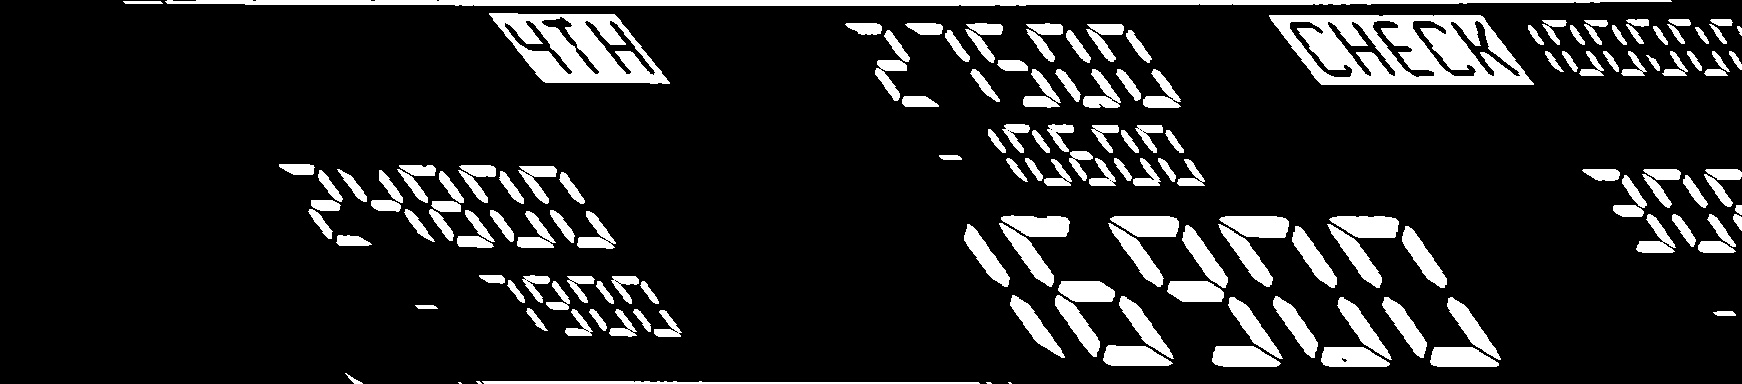
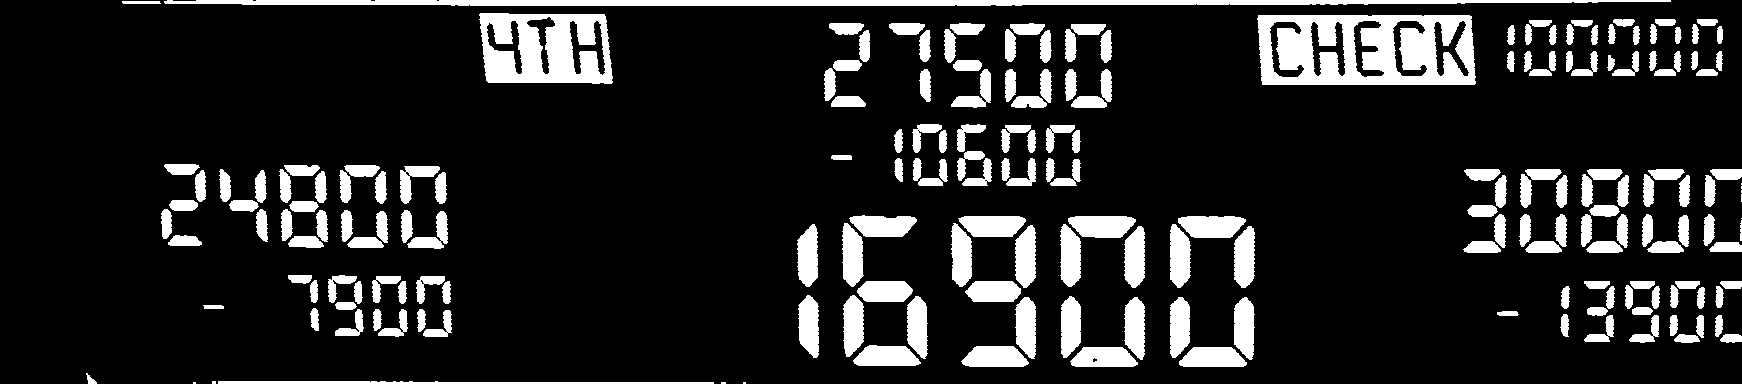
test_real_imageの傾き補正を手動に変更

diff --git a/image_processor.py b/image_processor.py
@@ -366,7 +366,7 @@ class ScoreImageProcessor:
         kernel = np.ones(config.BINARY_MORPH_OPEN_KERNEL_SIZE, np.uint8)
         binary = cv2.morphologyEx(binary, cv2.MORPH_OPEN, kernel, iterations=config.BINARY_MORPH_OPEN_ITERATIONS)
 
-        shear_map = {'hough': self._correct_shear_hough, 'manual': self._correct_shear_manual, 'zeros': self._correct_shear_zeros}
+        shear_map = {'manual': self._correct_shear_manual, 'manual': self._correct_shear_manual, 'manual': self._correct_shear_manual}
         if shear_correction_method in shear_map:
             args = (binary, manual_shear_angle) if shear_correction_method == 'manual' else (binary,)
             corrected_binary, angle = shear_map[shear_correction_method](*args)

diff --git a/tests/test_real_image.py b/tests/test_real_image.py
@@ -40,7 +40,7 @@ def test_real_image(image_path: str):
     
     try:
         print("\n--- 画像処理実行中 (デバッグモード) ---")
-        result = processor.process_image(image, debug=True, shear_correction_method='hough')
+        result = processor.process_image(image, debug=True, shear_correction_method='manual', manual_shear_angle= -13.0)
         if not result:
             print("❌ 画像処理に失敗しました。")
             return False
